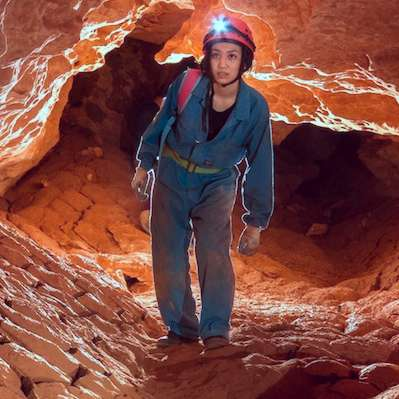
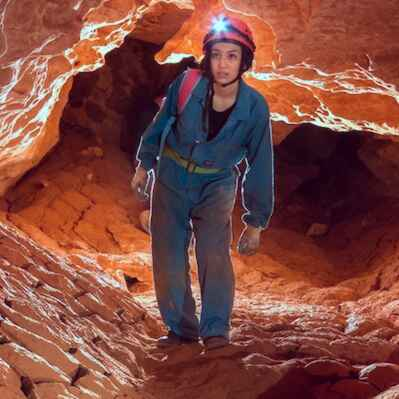
Compress images for faster page load. Add more header images. Fix spelling errors.

diff --git a/_posts/about/2018-12-20-committee.html b/_posts/about/2018-12-20-committee.html
@@ -4,11 +4,8 @@ title: "Committee"
 subheadline: #"Reading Experience"
 meta_teaser: #"Feeling Responsive uses Volkhov for headlines, Lato for everything else and if you are in need to show some code, it will be in Lucida Console."
 teaser: "Meet the team who run SUSS."
-#header:
-#    image: homepage_typography.jpg
-#    background-color: "#262930"
-#    caption: This is a caption for the header image with link
-#    caption_url: https://unsplash.com/
+header:
+    image_fullwidth: "P5130113.jpg"
 categories:
     - about
 ---

diff --git a/pages/tojoin.md b/pages/tojoin.md
@@ -9,7 +9,7 @@ header:
 permalink: "/tojoin/"
 ---
 
-SUSS is a Sydney University student society, our members include students, professionals and experienced cavers. You do not need to be a student or affiliated with Sydney University to join the club. Membership is discounted for students with the best membership rate available during o-week. If you did not sign up during o-week you are still able to join by following the instructions below.
+SUSS is a Sydney University student society, our members include students, professionals and experienced cavers. You do not need to be a student or affiliated with Sydney University to join the club. Membership is discounted for students.
 
 ## How to become a member or renew your membership
 
@@ -26,10 +26,10 @@ Pay by EFT to Sydney Unviersity Speleological Society, then fill out the form on
 Print out the membership form below, fill it out and post it to SUSS at the address listed on the top of the form with a cheque or money made out to Sydney University Speleological Society
 
 
-Please note all SUSS members (student and non student) are required to hold a current University of Sydney Union ACCESS card. ACCESS cards are available for purchase online at [USU Website](http://www.usu.edu.au/Shop/ACCESS-Card/Access-Card.aspx). Don't forget that your ACCESS card entitles you to benefits such as cheap movie tickets, retail discounts and so on, see the website for details.
+Please note: All SUSS members (student and non-student) are required to hold a current University of Sydney Union ACCESS card. ACCESS membership is free for current University of Sydney students. Cards for non-students are available for purchase online at [USU Website](http://www.usu.edu.au/Shop/ACCESS-Card/Access-Card.aspx). Don't forget that your ACCESS card entitles you to benefits such as cheap movie tickets, retail discounts and so on, see the website for details.
 
 ## Why become a member
 
-Club members have priority on registering for trips, if a trip fills up, non members will be asked to join or forfeit their place. If you have been or intend to come on multiple trips and live in Sydney it is reasonable to expect you to join. We charge $30 per trip for non members, this can go towards full membership in that calendar year if you decide to do so later (so keep your receipts!).
+Club members have priority on registering for trips, if a trip fills up, non members will be asked to join or forfeit their place. If you have been or intend to come on multiple trips and live in Sydney it is reasonable to expect you to join. We charge $30 per trip for non-members, this can go towards full membership in that calendar year if you decide to do so later (so keep your receipts!).
 
 <a class="radius button small" href="{{ site.url }}{{ site.baseurl }}/assets/membership_form.pdf">Download a membership form now ›</a>

diff --git a/_posts/members/2018-12-20-library.md b/_posts/members/2018-12-20-library.md
@@ -3,7 +3,7 @@ layout: page
 title: "Library"
 subheadline: #"Reading Experience"
 meta_teaser: #"Feeling Responsive uses Volkhov for headlines, Lato for everything else and if you are in need to show some code, it will be in Lucida Console."
-teaser: "The differnce between adventure and exporation is how much data you bind back. We are explorers."
+teaser: "The difference between adventure and exporation is how much data you bring back. We are explorers."
 header:
     image_fullwidth: valentin-rechitean-366196-unsplash.jpg
     background-color: #"#262930"

diff --git a/_posts/learn/2018-12-20-first-trip.md b/_posts/learn/2018-12-20-first-trip.md
@@ -4,6 +4,9 @@ title: "Your first trip"
 subheadline: #"Reading Experience"
 meta_teaser: #"Feeling Responsive uses Volkhov for headlines, Lato for everything else and if you are in need to show some code, it will be in Lucida Console."
 teaser: "So you have signed up for your first trip, congratulations. Now you need to pack and find our what you gotten youself into."
+header:
+    image_fullwidth: "ciara_endzone.jpg"
+    caption: "We have discovered some amzing places. Become part of the story. Photo: Rafd Morshedi"
 categories:
     - learn
 ---

diff --git a/_posts/members/2018-12-20-miscellaneous.md b/_posts/members/2018-12-20-miscellaneous.md
@@ -1,9 +1,12 @@
 ---
-layout: page
+layout: page-fullwidth
 title: "Miscellaneous"
 subheadline: #"Reading Experience"
 meta_teaser: #"Feeling Responsive uses Volkhov for headlines, Lato for everything else and if you are in need to show some code, it will be in Lucida Console."
 teaser: "Miscellaneous member documents and links."
+header:
+    image_fullwidth: "kubla_khan.jpg"
+    caption: "Kubla Khan Cave, Tasmania. Photo: Alan Pryke"
 categories:
     - members
 ---

diff --git a/pages/contact.md b/pages/contact.md
@@ -1,8 +1,11 @@
 ---
-layout: page
+layout: page-fullwidth
 title: "Contact"
 meta_title: "Contact and use our contact form"
 subheadline: "Got questions? Feel free to reach out."
+header:
+    image_fullwidth: "P4010158.jpg"
+    caption: "Walking out of Murray cave. Photo: Rafid Morshedi"
 #teaser: "Need to get in touch?"
 permalink: "/contact/"
 ---

diff --git a/pages/about.md b/pages/about.md
@@ -6,6 +6,7 @@ title: "About SUSS"
 permalink: "/about/"
 header:
    image_fullwidth: "cooleman_camping.jpg"
+   caption: "Relaxing after a hard day of caving. Photo: Rafid Morshedi"
 ---
 
 Come caving with SUSS! Sydney University's only truly underground society!

diff --git a/pages/pages-root-folder/index.md b/pages/pages-root-folder/index.md
@@ -7,6 +7,7 @@
 layout: frontpage
 header:
   image_fullwidth: img_480068-1-26.jpg
+  caption: 'Railway Tunnel, Mammoth Cave, Jenolan. Photo: Pete Baxter'
 widget1:
   title: "Join a trip"
   url: '/triplist/'
